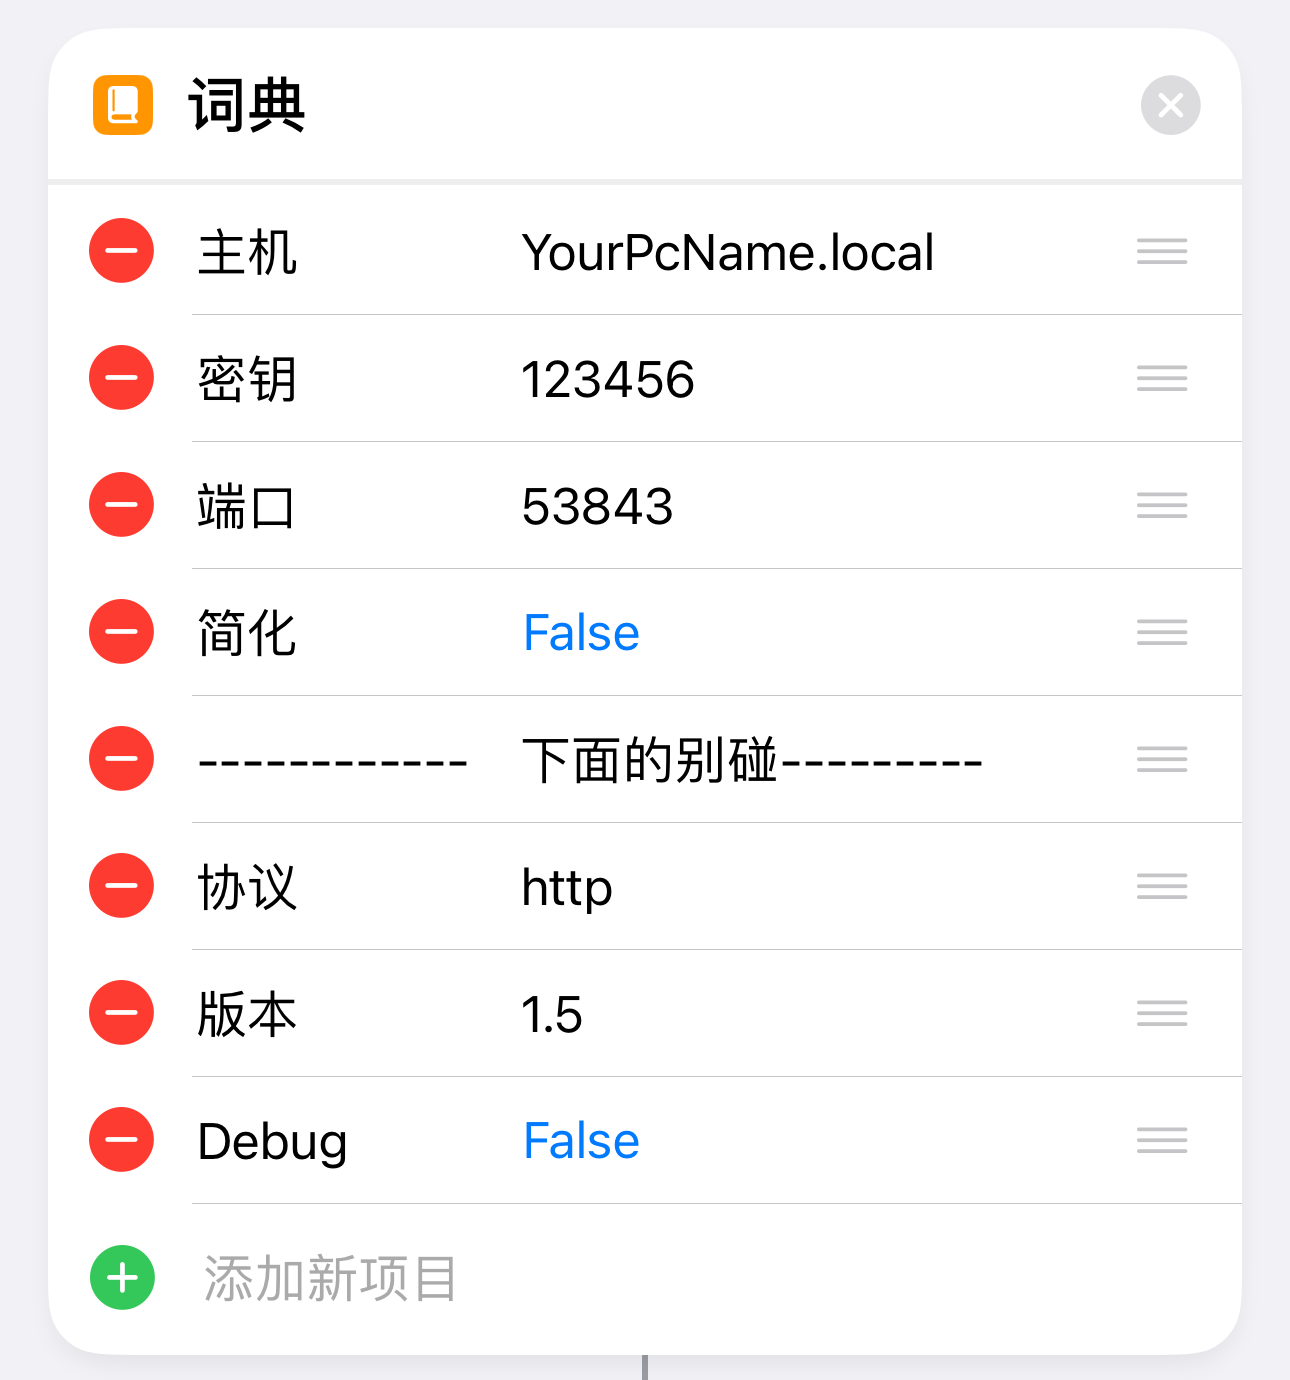
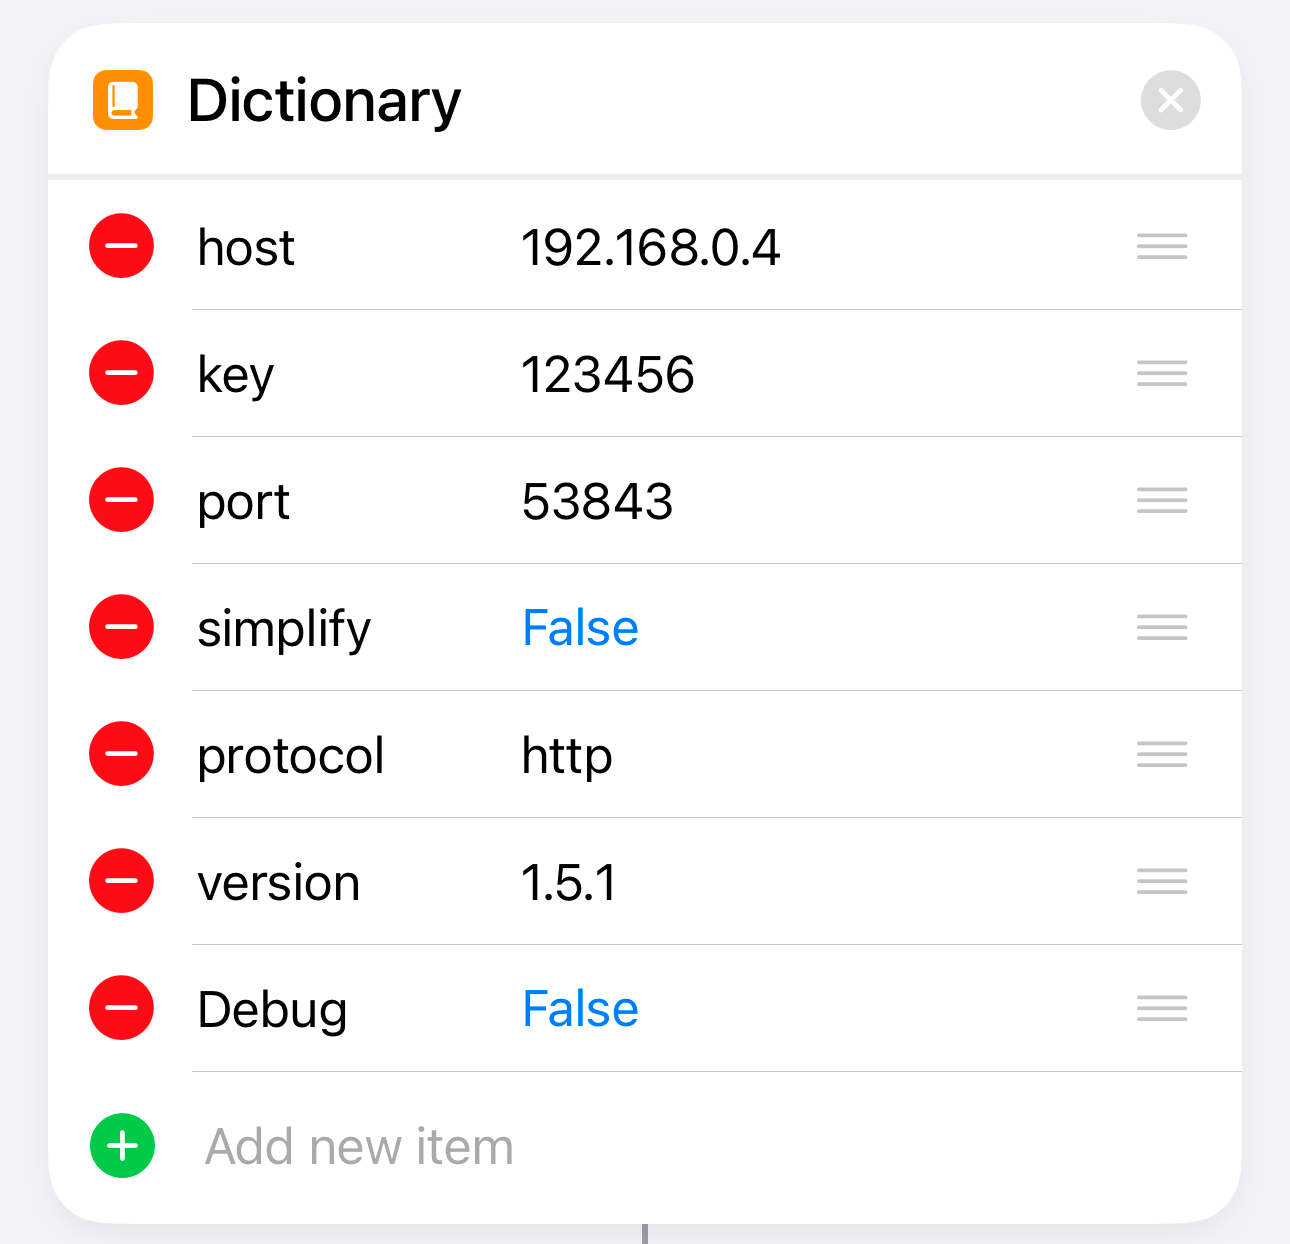
Fix the bug of shortcut in English systems and update the english readme.

diff --git a/readme.md b/readme.md
@@ -17,44 +17,68 @@ pyperclip~=1.8.2
 pystray==0.19.5
 ```
 
-# How to Pack
+# How to pack
 
 ```bash
 pyinstaller --add-data 'config;config' --add-data 'static;static' -w AirDropPlus.py
 ```
 
-# Using Steps
-1. Install Bonjour on Windows, which allows you to access Windows using the 'DeviceName.local' instead of an IP address.
+# How to use
+0. Network
+    
+    - Your iPhone and PC must be on the same LAN, or the PC can connect to the iOS hotspot, or vice versa.
+    - (It doesn't use data when transferring files via a hotspot.)
+1. Install Bonjour
+    - Bonjour allows you to access Windows using the 'DeviceName.local' instead of an IP address.
+    - The latest version of Bonjour may encounter issues accessing 'DeviceName.local'. Please use an older version instead.
     <div style="text-align:center;">
         <img src="pic/windows_device_name.png" alt="Image" style="width: 35%;">
     </div>
-2. Modify the configuration file 'config.ini' to set the file save path and key (the packaged configuration file is located at '_internal/config.ini').
-3. Start 'AirDropPlus', and when prompted with the following pop-up, please click to allow.
+2. PC side setting
+    - Modify the configuration file 'config.ini' to set the file save path and key.
+   - The packaged configuration file is located at '_internal/config.ini'.
+3. Start PC side program
+   
+    Start 'AirDropPlus.exe', and when prompted with the following pop-up, please click to allow.
     <div style="text-align:center;">
       <img src="pic/network.png" alt="Image" style="width: 35%;">
     </div>
-4. Download the shortcut on the mobile device from: https://www.icloud.com/shortcuts/3fecd0f09d594726b5e0ec46c976ccc4
+4. Get the shortcut on your iPhone.
+
+   https://www.icloud.com/shortcuts/d8ba54ce9e674becaf951a076ac1d967
+      <div style="text-align:center;">
+       <img src="pic/shortcut_QRCode.png" alt="Image" style="width: 35%;">
+   </div>
 5. Set up the shortcut:
-   - Host(主机)：Windows device name.local (or the host IP address, do not add .local)
-   - Port(端口)：The same port number set in 'config.ini'
-   - Key(密钥)：The same key set in 'config.ini'
-   - Simplify(简化)：Enabling this will disable the function to send the iOS clipboard
+   - host：Windows 'DeviceName.local' (or the host IP address instead)
+   - port：The same port number set in 'config.ini'
+   - key：The same key set in 'config.ini'
+   - simplify：Enabling this will disable the function to send the iOS clipboard
    <div style="text-align:center;">
        <img src="pic/shortcut_conf.png" alt="Image" style="width: 35%;">
    </div>
-6. Usage conditions: The iOS device and Windows device must be on the same local area network, or the Windows device can connect to the iOS hotspot, or vice versa. Using a hotspot to send files does not consume data.
+6. Set the trigger method of the shortcut:
+   1. Set it up in 'Settings-Accessibility-Touch-BackTap' to trigger with a double-tap on the back of the iPhone.
+   2. The iPhone 15 Pro series can set it to trigger with the side button.
 7. Functionality Testing:
-  - Send files: Execute the 'AirDrop Plus' shortcut from the file sharing menu.
-    <div style="text-align:center;">
-      <img src="pic/send_file.png" alt="Image" style="width: 35%;">
-    </div>
-  - Receive files: Directly execute the 'AirDrop Plus' shortcut, or set it up in Accessibility to trigger with a double-tap on the back of the phone. The 15 Pro series can set it to trigger with the side button.
-    - When 'Simplify' is enabled, running it will allow iOS to receive content copied on Windows (files, images, text).
-    - When 'Simplify' is disabled, running it will bring up a menu to choose whether to send the iOS clipboard or receive the Windows clipboard.
-    <div style="text-align:center;">
-      <img src="pic/receive_file.png" alt="Image" style="width: 20%;">
-      <img src="pic/shortcut_menu.jpg" alt="Image" style="width: 30%;">
-    </div>
+    - **Send files**:
+
+      Tap the 'AirDrop Plus' shortcut from the file sharing menu.
+      <div style="text-align:center;">
+        <img src="pic/send_file.png" alt="Image" style="width: 35%;">
+      </div>
+   - **Send texts**:
+     1. Copy the text which you want to send.
+     2. Trigger the shortcut, then tap the 'Send' option.
+     <div style="text-align:center;">
+       <img src="pic/shortcut_menu.png" alt="Image" style="width: 40%;">
+     </div>
+   - Receive files or texts: 
+     1. Trigger the shortcut
+     2. Tap the 'Receive' option to receive file or text from PC's clipboard.
+     <div style="text-align:center;">
+       <img src="pic/shortcut_menu.png" alt="Image" style="width: 40%;">
+     </div>
 
 # Issues and solutions
 ### 1. Shortcut Instruction Timeout:

diff --git a/readme_zh.md b/readme_zh.md
@@ -53,7 +53,7 @@ pyinstaller --add-data 'config;config' --add-data 'static;static' -w AirDropPlus
     - 当'简化'被关闭时，运行后会弹出一个菜单，选择发送iOS剪贴板，还是接收Windows剪贴板
     <div style="text-align:center;">
       <img src="pic/receive_file.png" alt="Image" style="width: 20%;">
-      <img src="pic/shortcut_menu.jpg" alt="Image" style="width: 30%;">
+      <img src="pic/shortcut_menu.png" alt="Image" style="width: 30%;">
     </div>
 
 # 问题
